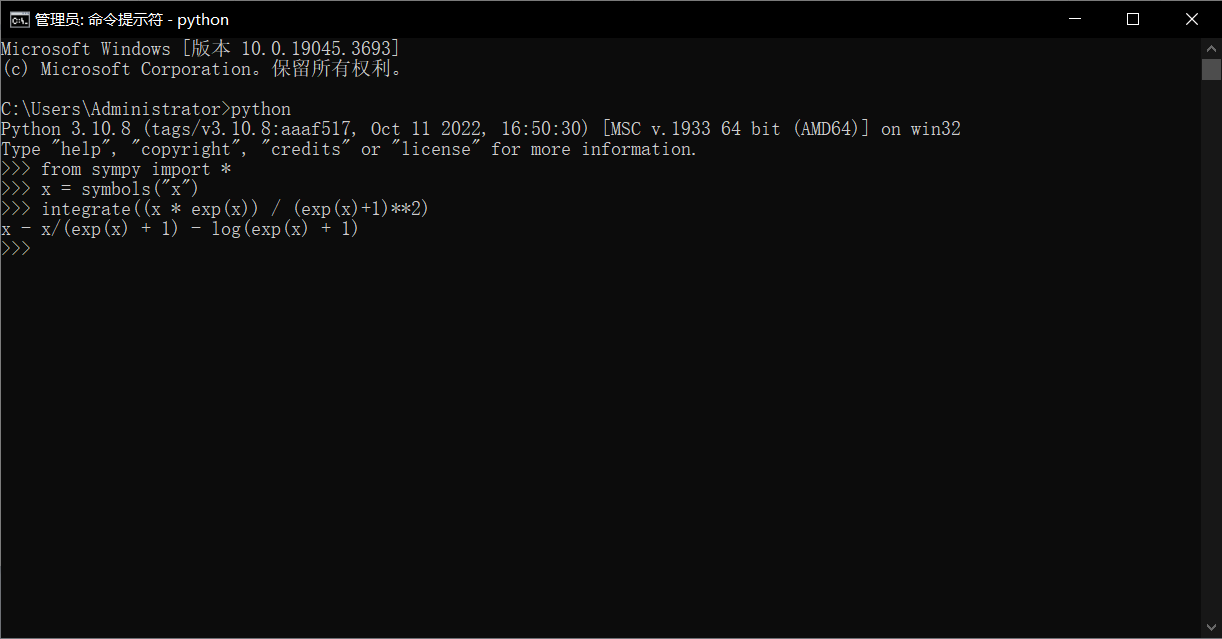
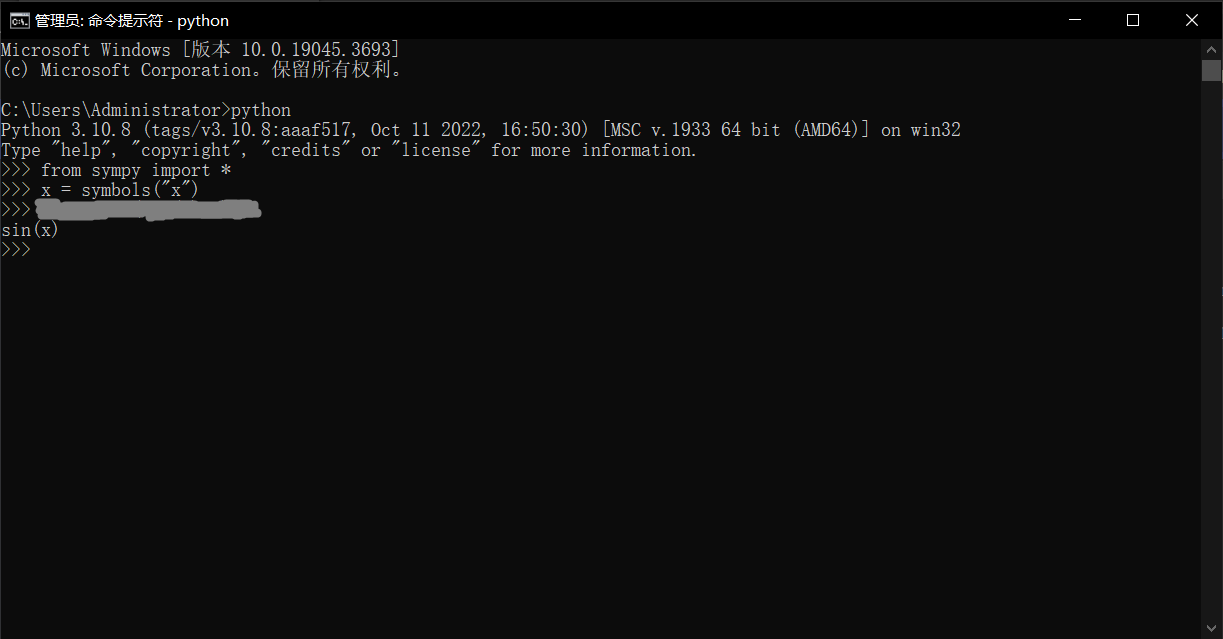
fix sympy part

diff --git a/docs/index.md b/docs/index.md
@@ -100,7 +100,7 @@ python ok --local
 
     求 $\int f(x)dx$ 
 
-请将计算的运行结果截图，类似下图（求 $\int \frac{xe^x}{(e^x + 1)^2}dx$ ）
+请将计算的运行结果截图，类似下图（求 $\int \cos{x}dx$ ）
 
 ![无标题9](assets/无标题9.png)
 
